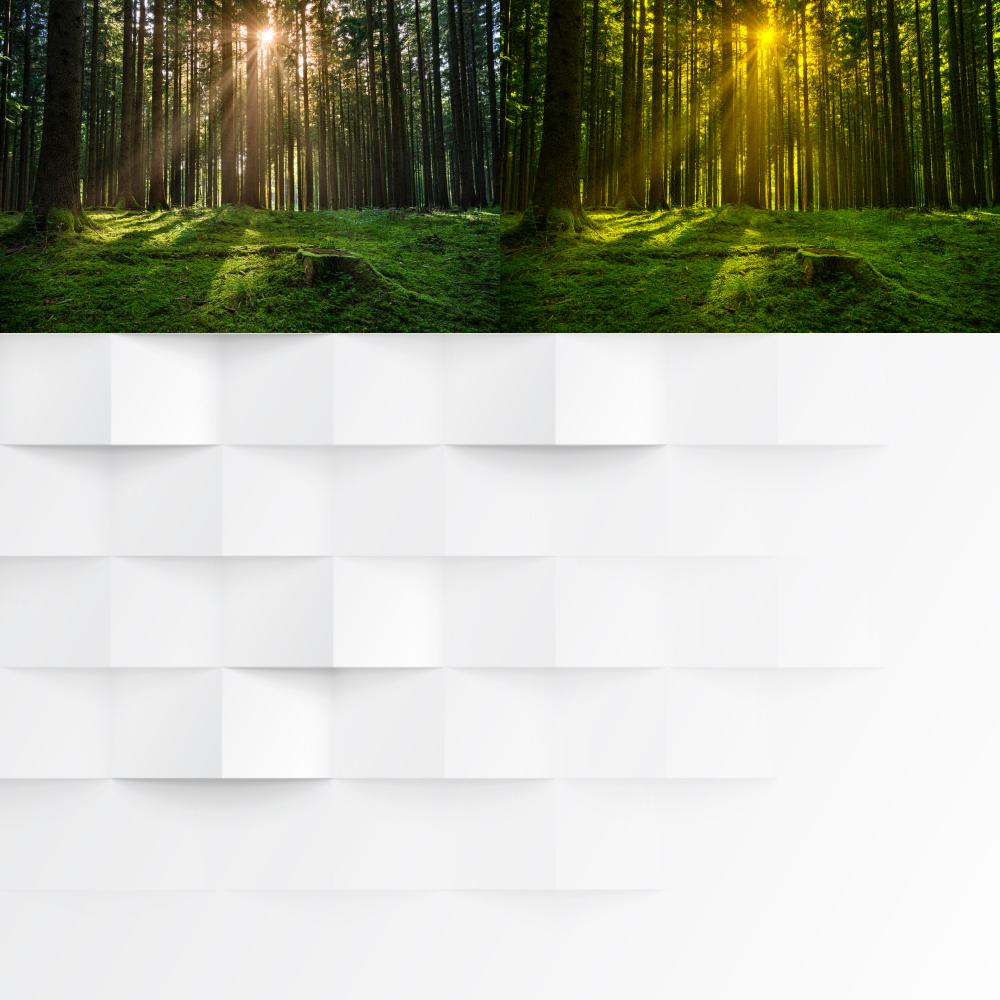
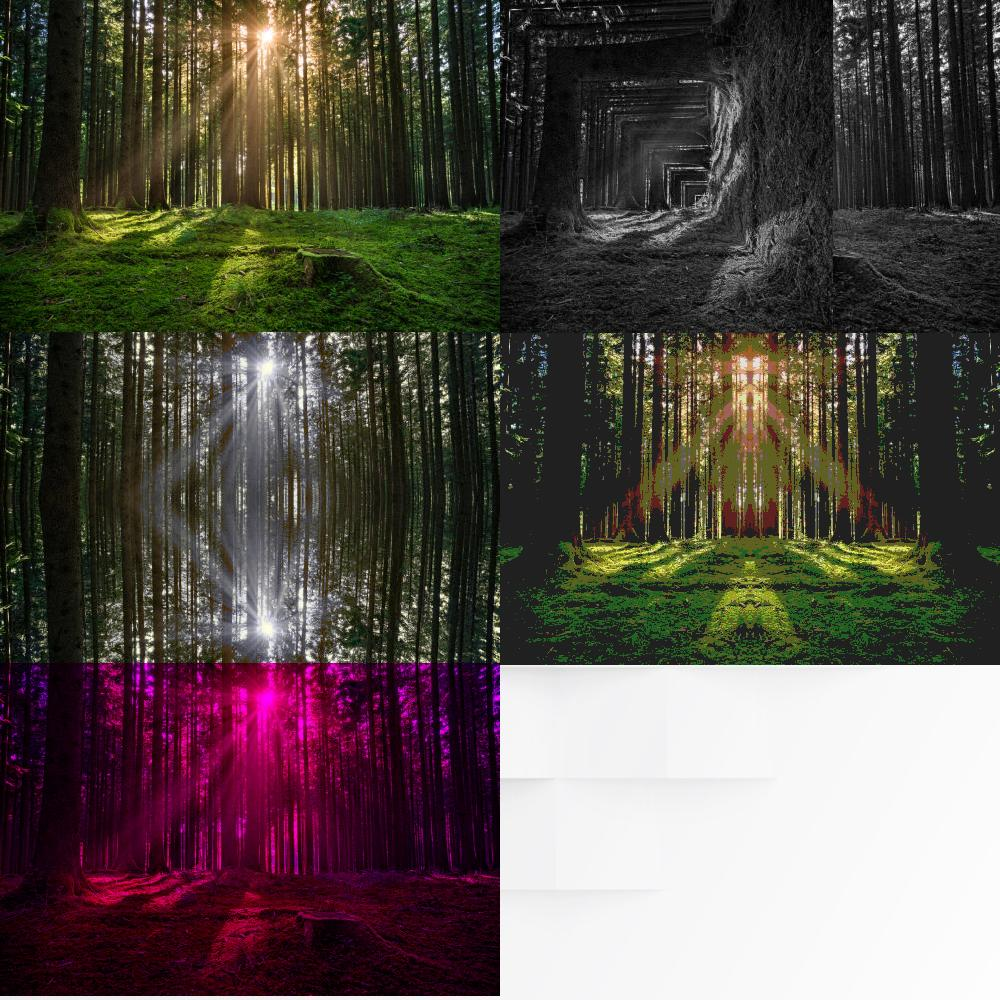
filters and fun

diff --git a/PictureLab/classes/Picture.java b/PictureLab/classes/Picture.java
@@ -97,6 +97,19 @@ public class Picture extends SimplePicture
             }
         }
     }
+    
+    /** Method to set the green to 0 */
+    public void zeroGreen()
+    {
+        Pixel[][] pixels = this.getPixels2D();
+        for (Pixel[] rowArray : pixels)
+        {
+            for (Pixel pixelObj : rowArray)
+            {
+                pixelObj.setGreen(0);
+            }
+        }
+    }
 
     /** Method to set red and green to 0 */
     public void keepOnlyBlue()
@@ -140,6 +153,106 @@ public class Picture extends SimplePicture
                 pixelObj.setRed(avg);
                 pixelObj.setGreen(avg);
                 pixelObj.setBlue(avg);
+            }
+        }
+    }
+    
+    /** Method to use a sepia filter */
+    public void sepia()
+    {
+        Pixel[][] pixels = this.getPixels2D();
+        int avg = 0;
+        int originalRed = 0;
+        int originalBlue = 0;
+        int originalGreen = 0;
+        
+        for (Pixel[] rowArray : pixels)
+        {
+            for (Pixel pixelObj : rowArray)
+            {
+                originalRed = pixelObj.getRed();
+                originalBlue = pixelObj.getBlue();
+                originalGreen = pixelObj.getGreen();
+                avg = (pixelObj.getRed()+pixelObj.getGreen()+pixelObj.getBlue())/3;
+                pixelObj.setRed(avg);
+                pixelObj.setGreen(avg);
+                pixelObj.setBlue(avg);
+                if (pixelObj.getRed() < 60)
+                {
+                    pixelObj.setRed((int)(originalRed*.9));
+                    pixelObj.setBlue((int)(originalBlue*.9));
+                    pixelObj.setGreen((int)(originalGreen*.9));
+                }
+                else if (pixelObj.getRed() < 190)
+                {
+                    pixelObj.setBlue((int)(originalRed*.8));
+                }
+                else
+                {
+                    pixelObj.setBlue((int)(originalRed*.9));
+                }
+            }
+        }
+    }
+    
+    /** Method to posterize a picture */
+    public void posterize()
+    {
+        Pixel[][] pixels = this.getPixels2D();
+        for (Pixel[] rowArray : pixels)
+        {
+            for (Pixel pixelObj : rowArray)
+            {
+                if (pixelObj.getRed() < 64)
+                {
+                    pixelObj.setRed(32);
+                }
+                else if (pixelObj.getRed() < 128)
+                {
+                    pixelObj.setRed(96);
+                }
+                else if (pixelObj.getRed() < 192)
+                {
+                    pixelObj.setRed(160);
+                }
+                else
+                {
+                    pixelObj.setRed(224);
+                }
+                
+                if (pixelObj.getBlue() < 64)
+                {
+                    pixelObj.setBlue(32);
+                }
+                else if (pixelObj.getBlue() < 128)
+                {
+                    pixelObj.setBlue(96);
+                }
+                else if (pixelObj.getBlue() < 192)
+                {
+                    pixelObj.setBlue(160);
+                }
+                else
+                {
+                    pixelObj.setBlue(224);
+                }
+                
+                if (pixelObj.getGreen() < 64)
+                {
+                    pixelObj.setGreen(32);
+                }
+                else if (pixelObj.getGreen() < 128)
+                {
+                    pixelObj.setGreen(96);
+                }
+                else if (pixelObj.getGreen() < 192)
+                {
+                    pixelObj.setGreen(160);
+                }
+                else
+                {
+                    pixelObj.setGreen(224);
+                }
             }
         }
     }
@@ -409,16 +522,26 @@ public class Picture extends SimplePicture
     {
         Picture forest = new Picture("forest2.jpg");
         this.copy(forest,0,0);
-        Picture forestNoBlue = new Picture(forest);
-        forestNoBlue.zeroBlue();
-        this.copy(forestNoBlue,0,500);
-// 
-//         Picture forestNoBlue = new Picture(forest2);
-//         forestNoBlue.zeroBlue();
-//         this.copy(forestNoBlue,300,0);
-//         this.copy(forest,400,0);
-//         this.copy(forest2,500,0);
-//         this.mirrorVertical();
+        
+        Picture posterizedForest = new Picture(forest);
+        posterizedForest.posterize();
+        posterizedForest.mirrorVertical();
+        this.copy(posterizedForest,332,500);
+        
+        Picture grayForest = new Picture(forest);
+        grayForest.grayscale();
+        grayForest.mirrorDiagonal();
+        this.copy(grayForest,0,500);
+        
+        Picture sepiaForest = new Picture(forest);
+        sepiaForest.sepia();
+        sepiaForest.mirrorHorizontal();
+        this.copy(sepiaForest,332,0);
+        
+        Picture noGreen = new Picture(forest);
+        noGreen.zeroGreen();
+        this.copy(noGreen,663,0);
+        
         this.write("collage.jpg");
     }
 

diff --git a/PictureLab/classes/PictureTester.java b/PictureLab/classes/PictureTester.java
@@ -44,6 +44,15 @@ public class PictureTester
     beach.explore();
   }
   
+  /** Method to test sepia */
+  public static void testSepia()
+  {
+    Picture beach = new Picture("beach.jpg");
+    beach.explore();
+    beach.sepia();
+    beach.explore();
+  }
+  
   /** Method to test fixUnderwater */
   public static void testFixUnderwater()
   {
@@ -176,6 +185,7 @@ public class PictureTester
     //testKeepOnlyGreen();
     testNegate();
     testGrayscale();
+    testSepia();
     testFixUnderwater();
     testMirrorVertical();
     testMirrorVerticalRightToLeft();
